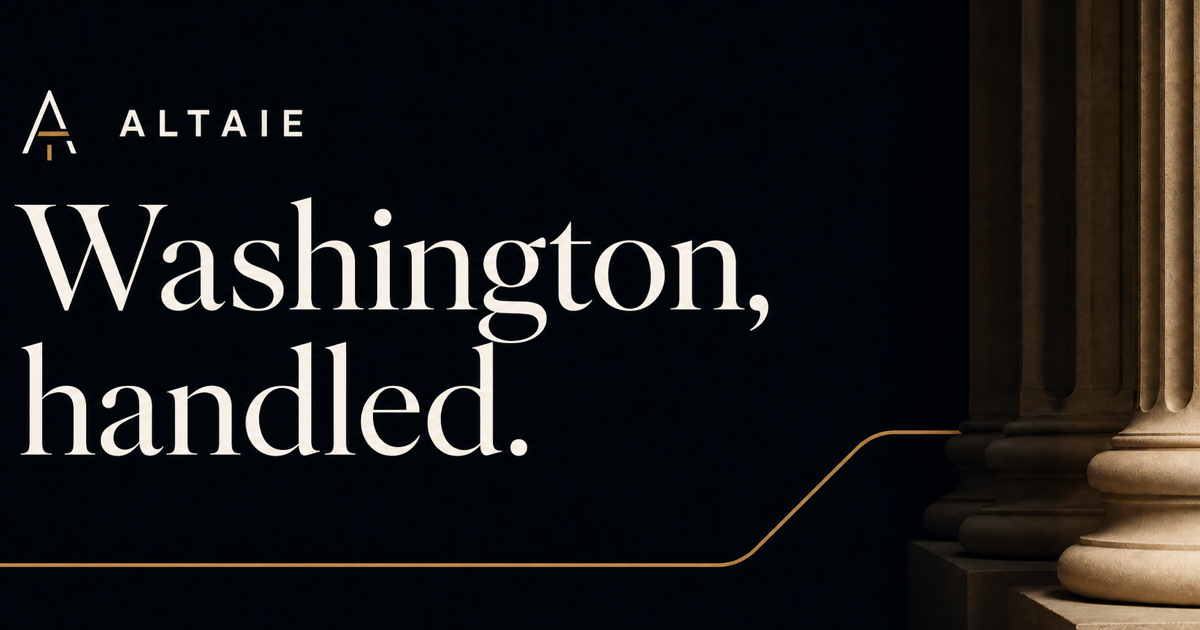
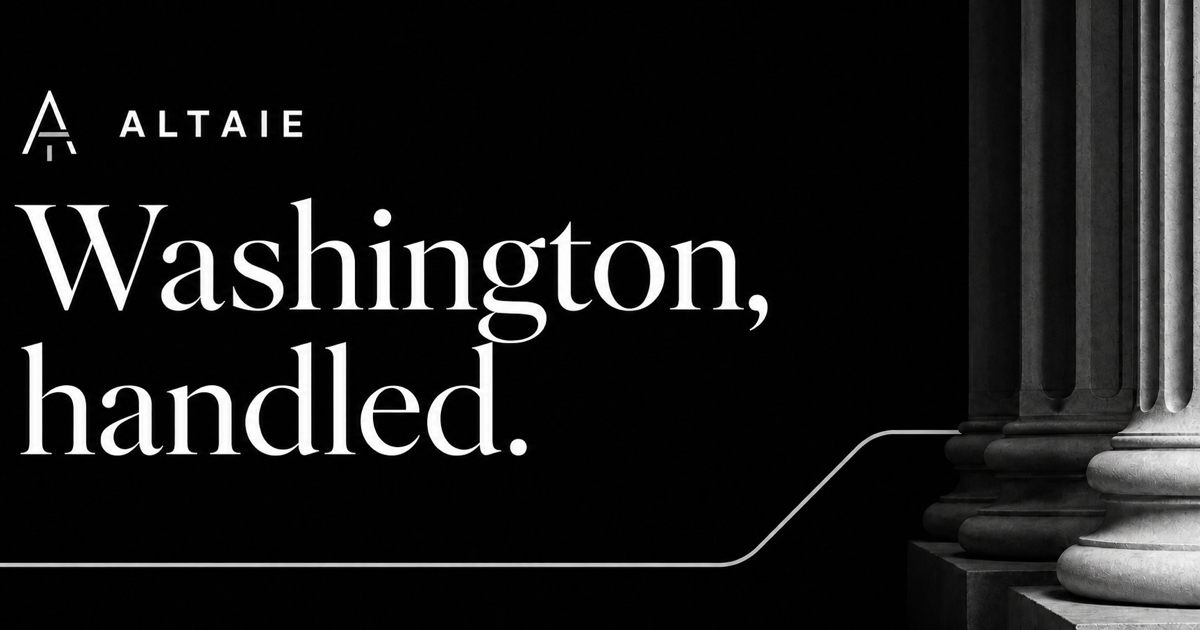
Refine Altaie to premium black and white

diff --git a/app/globals.css b/app/globals.css
@@ -1,14 +1,14 @@
 :root {
-  --ink: #0a1117;
-  --ink-soft: #17212a;
-  --ivory: #f4f0e8;
-  --paper: #fbfaf7;
-  --brass: #b28a57;
-  --brass-dark: #8c683d;
-  --slate: #68747d;
-  --line: rgba(10, 17, 23, 0.16);
+  --ink: #050505;
+  --ink-soft: #1a1a1a;
+  --ivory: #f6f6f4;
+  --paper: #ffffff;
+  --brass: #d7d7d3;
+  --brass-dark: #444442;
+  --slate: #6b6b69;
+  --line: rgba(5, 5, 5, 0.16);
   --white-line: rgba(255, 255, 255, 0.18);
-  --shadow: 0 30px 80px rgba(8, 15, 21, 0.16);
+  --shadow: 0 30px 80px rgba(0, 0, 0, 0.15);
 }
 * { box-sizing: border-box; }
 html { scroll-behavior: smooth; }
@@ -24,24 +24,24 @@ h3 { font-size: 1.25rem; line-height: 1.25; }
 button, input, select, textarea { font: inherit; }
 button { cursor: pointer; }
 button:disabled { cursor: wait; opacity: 0.66; }
-:focus-visible { outline: 2px solid var(--brass); outline-offset: 4px; }
+:focus-visible { outline: 2px solid #111; outline-offset: 4px; }
 .skip-link { position: fixed; left: 1rem; top: 1rem; z-index: 100; padding: .7rem 1rem; background: var(--ivory); color: var(--ink); transform: translateY(-180%); transition: transform .2s; }
 .skip-link:focus { transform: translateY(0); }
 .page-shell { width: min(1280px, calc(100% - 64px)); margin-inline: auto; }
 .eyebrow { margin-bottom: 1rem; color: var(--brass-dark); font-size: .72rem; font-weight: 800; letter-spacing: .18em; line-height: 1.2; text-transform: uppercase; }
-.eyebrow--light { color: #d2b084; }
+.eyebrow--light { color: #d7d7d3; }
 .button { display: inline-flex; min-height: 50px; align-items: center; justify-content: center; padding: .78rem 1.35rem; border: 1px solid transparent; border-radius: 1px; font-size: .75rem; font-weight: 800; letter-spacing: .08em; line-height: 1; text-transform: uppercase; transition: background .2s, color .2s, border-color .2s, transform .2s; }
 .button:hover { transform: translateY(-1px); }
 .button--dark { background: var(--ink); color: var(--ivory); }
 .button--dark:hover { background: var(--ink-soft); }
-.button--brass { background: var(--brass); color: var(--ink); }
-.button--brass:hover { background: #c59a63; }
+.button--brass { background: var(--ink); color: white; }
+.button--brass:hover { background: #292929; }
 .button--ivory { background: var(--ivory); color: var(--ink); }
 .button--ghost { border-color: rgba(255,255,255,.56); color: white; background: rgba(10,17,23,.12); backdrop-filter: blur(8px); }
 .button--ghost:hover { background: rgba(255,255,255,.12); }
 .text-link { display: inline-flex; gap: .45rem; border-bottom: 1px solid var(--brass); padding-bottom: .2rem; font-size: .82rem; font-weight: 800; letter-spacing: .06em; text-transform: uppercase; }
 .text-link--light { color: var(--ivory); }
-.site-header { position: sticky; top: 0; z-index: 50; background: rgba(251,250,247,.92); border-bottom: 1px solid var(--line); backdrop-filter: blur(14px); }
+.site-header { position: sticky; top: 0; z-index: 50; background: rgba(255,255,255,.94); border-bottom: 1px solid var(--line); backdrop-filter: blur(14px); }
 .header-shell { width: min(1440px, calc(100% - 40px)); min-height: 78px; margin-inline: auto; display: grid; grid-template-columns: 1fr auto 1fr; align-items: center; gap: 2rem; }
 .brand-lockup { display: inline-flex; width: max-content; align-items: center; gap: .8rem; }
 .brand-mark { display: inline-block; width: 31px; height: 31px; flex: 0 0 31px; background: url('/brand/altaie-mark.svg') center/contain no-repeat; }
@@ -49,84 +49,86 @@ button:disabled { cursor: wait; opacity: 0.66; }
 .brand-lockup--inverse { color: var(--ivory); }
 .brand-lockup--inverse .brand-mark { outline: 1px solid rgba(255,255,255,.12); }
 .desktop-nav { display: flex; align-items: center; gap: 2.2rem; }
-.desktop-nav a { color: #3c474f; font-size: .74rem; font-weight: 800; letter-spacing: .06em; text-transform: uppercase; }
+.desktop-nav a { color: #3d3d3b; font-size: .74rem; font-weight: 800; letter-spacing: .06em; text-transform: uppercase; }
 .desktop-nav a:hover { color: var(--ink); }
 .header-cta { justify-self: end; }
 .mobile-nav { display: none; }
-.site-footer { background: var(--ink); color: #cdd1d3; }
+.site-footer { background: var(--ink); color: #d1d1ce; }
 .footer-shell { width: min(1280px, calc(100% - 64px)); margin-inline: auto; display: grid; grid-template-columns: 2fr 1fr 1fr; gap: 5rem; padding: 6rem 0 4rem; }
-.footer-primary p { max-width: 440px; margin: 2rem 0 1.5rem; color: #aeb6ba; font-family: var(--font-serif), Georgia, serif; font-size: 1.7rem; line-height: 1.25; }
+.footer-primary p { max-width: 440px; margin: 2rem 0 1.5rem; color: #b8b8b5; font-family: var(--font-serif), Georgia, serif; font-size: 1.7rem; line-height: 1.25; }
 .footer-column { display: flex; flex-direction: column; align-items: flex-start; gap: .7rem; }
 .footer-column a { font-size: .9rem; }
 .footer-column a:hover { color: white; }
-.footer-legal { width: min(1280px, calc(100% - 64px)); margin-inline: auto; display: flex; justify-content: space-between; gap: 1rem; padding: 1.2rem 0 2rem; border-top: 1px solid var(--white-line); color: #79848b; font-size: .7rem; letter-spacing: .04em; }
+.footer-legal { width: min(1280px, calc(100% - 64px)); margin-inline: auto; display: flex; justify-content: space-between; gap: 1rem; padding: 1.2rem 0 2rem; border-top: 1px solid var(--white-line); color: #888884; font-size: .7rem; letter-spacing: .04em; }
 .home-hero { position: relative; min-height: min(820px, calc(100vh - 78px)); display: flex; align-items: flex-end; overflow: hidden; background: var(--ink); color: white; }
-.home-hero__image { position: absolute; inset: 0; background: url('/brand/principal-movement.png') center 40%/cover no-repeat; transform: scale(1.01); }
-.home-hero__shade { position: absolute; inset: 0; background: linear-gradient(90deg, rgba(5,10,14,.92) 0%, rgba(5,10,14,.66) 42%, rgba(5,10,14,.14) 72%), linear-gradient(0deg, rgba(5,10,14,.72) 0%, transparent 40%); }
+.home-hero__image { position: absolute; inset: 0; background: url('/brand/principal-movement.png') center 40%/cover no-repeat; filter: grayscale(1) contrast(1.06); transform: scale(1.01); }
+.home-hero__shade { position: absolute; inset: 0; background: linear-gradient(90deg, rgba(0,0,0,.94) 0%, rgba(0,0,0,.68) 42%, rgba(0,0,0,.16) 72%), linear-gradient(0deg, rgba(0,0,0,.76) 0%, transparent 40%); }
 .home-hero__content { position: relative; z-index: 2; width: min(1280px, calc(100% - 64px)); margin: 0 auto; padding: 8rem 0 9.5rem; }
 .home-hero__content h1 { max-width: 850px; margin-bottom: 2rem; color: var(--ivory); font-size: clamp(5rem, 10.5vw, 10rem); }
-.home-hero__content h1 em { color: #d2b084; font-weight: 400; }
-.home-hero__content > p:not(.eyebrow) { max-width: 620px; margin-bottom: 2rem; color: #dce0e2; font-size: 1.18rem; }
+.home-hero__content h1 em { color: #d7d7d3; font-weight: 400; }
+.home-hero .button--brass { background: white; color: var(--ink); border-color: white; }
+.home-hero .button--brass:hover { background: #dededb; }
+.home-hero__content > p:not(.eyebrow) { max-width: 620px; margin-bottom: 2rem; color: #e1e1de; font-size: 1.18rem; }
 .hero-actions { display: flex; flex-wrap: wrap; gap: .8rem; }
-.hero-proof { position: absolute; z-index: 2; right: max(32px, calc((100vw - 1280px) / 2)); bottom: 2rem; display: flex; gap: 1.4rem; color: #c9ced1; font-size: .66rem; font-weight: 700; letter-spacing: .1em; text-transform: uppercase; }
+.hero-proof { position: absolute; z-index: 2; right: max(32px, calc((100vw - 1280px) / 2)); bottom: 2rem; display: flex; gap: 1.4rem; color: #cececa; font-size: .66rem; font-weight: 700; letter-spacing: .1em; text-transform: uppercase; }
 .hero-proof span + span { padding-left: 1.4rem; border-left: 1px solid rgba(255,255,255,.28); }
 .statement-section { padding: 8rem 0; }
 .statement-grid { display: grid; grid-template-columns: 1.55fr .8fr; gap: 8rem; align-items: end; }
 .statement-grid h2 { max-width: 800px; margin: 0; font-size: clamp(3rem, 5.5vw, 5.7rem); }
-.statement-grid > div p { color: #4f5b64; font-size: 1.05rem; }
+.statement-grid > div p { color: #51514f; font-size: 1.05rem; }
 .services-section { padding: 7rem 0 8rem; background: var(--ivory); }
 .section-heading { display: grid; grid-template-columns: 1.3fr .7fr; gap: 5rem; align-items: end; margin-bottom: 4rem; }
 .section-heading h2 { margin-bottom: 0; }
-.section-heading > p { color: #57626a; }
+.section-heading > p { color: #5a5a58; }
 .service-cards { display: grid; grid-template-columns: repeat(3, 1fr); border-top: 1px solid var(--line); border-bottom: 1px solid var(--line); }
 .service-card { position: relative; min-height: 340px; padding: 2rem; border-right: 1px solid var(--line); transition: background .2s, color .2s; }
 .service-card:last-child { border-right: 0; }
 .service-card > span { display: block; margin-bottom: 5rem; color: var(--brass-dark); font-size: .75rem; font-weight: 800; }
 .service-card h3 { font-family: var(--font-serif), Georgia, serif; font-size: 2rem; font-weight: 400; }
-.service-card p { color: #59636a; }
+.service-card p { color: #5b5b59; }
 .service-card b { position: absolute; right: 2rem; bottom: 1.5rem; font-size: 1.2rem; }
 .service-card:hover { background: var(--ink); color: var(--ivory); }
-.service-card:hover p { color: #bdc4c8; }
+.service-card:hover p { color: #c5c5c1; }
 .split-feature { display: grid; grid-template-columns: 1fr 1fr; min-height: 780px; padding: 8rem 0; }
-.split-feature__image { min-height: 620px; background-position: center; background-size: cover; box-shadow: var(--shadow); }
+.split-feature__image { min-height: 620px; background-position: center; background-size: cover; filter: grayscale(1) contrast(1.03); box-shadow: var(--shadow); }
 .image-assistant { background-image: url('/brand/assistant-first.png'); }
 .split-feature__content { display: flex; flex-direction: column; justify-content: center; padding: 2rem 0 2rem 7rem; }
-.split-feature__content > p:not(.eyebrow) { max-width: 580px; color: #59646c; font-size: 1.05rem; }
+.split-feature__content > p:not(.eyebrow) { max-width: 580px; color: #5b5b59; font-size: 1.05rem; }
 .numbered-list { margin-top: 2rem; border-top: 1px solid var(--line); }
 .numbered-list article { display: grid; grid-template-columns: 48px 1fr; gap: 1.2rem; padding: 1.4rem 0; border-bottom: 1px solid var(--line); }
 .numbered-list article > span { color: var(--brass-dark); font-size: .72rem; font-weight: 800; }
 .numbered-list h3 { margin-bottom: .25rem; }
-.numbered-list p { margin-bottom: 0; color: #647078; font-size: .91rem; }
-.airport-strip { background: #111b23; color: var(--ivory); }
+.numbered-list p { margin-bottom: 0; color: #686866; font-size: .91rem; }
+.airport-strip { background: #090909; color: var(--ivory); }
 .airport-strip__inner { display: grid; grid-template-columns: 1.2fr .7fr auto; align-items: center; gap: 4rem; padding: 5rem 0; }
 .airport-strip h2 { margin: 0; font-size: clamp(3rem, 5vw, 5.5rem); }
-.airport-strip h2 span { color: var(--brass); }
-.airport-strip__inner > p { margin: 0; color: #b6bec3; }
+.airport-strip h2 span { color: #8c8c89; }
+.airport-strip__inner > p { margin: 0; color: #bebebb; }
 .metrics { display: grid; grid-template-columns: repeat(4, 1fr); padding: 6rem 0; }
 .metrics div { min-height: 160px; padding: 1.5rem 2rem; border-left: 1px solid var(--line); display: flex; flex-direction: column; justify-content: space-between; }
 .metrics div:last-child { border-right: 1px solid var(--line); }
 .metrics strong { font-family: var(--font-serif), Georgia, serif; font-size: 3rem; font-weight: 400; }
-.metrics span { color: #66727a; font-size: .78rem; font-weight: 700; letter-spacing: .04em; text-transform: uppercase; }
-.cta-band { width: min(1440px, calc(100% - 32px)); margin: 0 auto 16px; display: grid; grid-template-columns: 1fr auto; align-items: end; gap: 4rem; padding: 6rem max(32px, calc((100vw - 1280px) / 2)); background: var(--brass); color: var(--ink); }
+.metrics span { color: #6a6a68; font-size: .78rem; font-weight: 700; letter-spacing: .04em; text-transform: uppercase; }
+.cta-band { width: min(1440px, calc(100% - 32px)); margin: 0 auto 16px; display: grid; grid-template-columns: 1fr auto; align-items: end; gap: 4rem; padding: 6rem max(32px, calc((100vw - 1280px) / 2)); background: var(--ink); color: white; }
 .cta-band h2 { max-width: 850px; margin-bottom: 1rem; }
 .cta-band p:not(.eyebrow) { max-width: 660px; margin: 0; }
-.cta-band .eyebrow { color: #5e4327; }
+.cta-band .eyebrow { color: #bcbcb8; }
 .page-hero { padding: 8rem 0 7rem; background: var(--ivory); border-bottom: 1px solid var(--line); }
 .page-hero__inner { display: grid; grid-template-columns: 1fr .65fr; column-gap: 8rem; align-items: end; }
 .page-hero .eyebrow { grid-column: 1 / -1; }
 .page-hero h1 { max-width: 940px; margin-bottom: 0; font-size: clamp(4rem, 8vw, 8rem); }
-.page-hero__body { max-width: 580px; margin-bottom: 2rem; color: #526069; font-size: 1.05rem; }
+.page-hero__body { max-width: 580px; margin-bottom: 2rem; color: #565654; font-size: 1.05rem; }
 .page-hero .button { grid-column: 2; width: max-content; }
 .detail-list { padding: 3rem 0 8rem; }
 .detail-list article { display: grid; grid-template-columns: 90px 1fr; gap: 2rem; padding: 4rem 0; border-bottom: 1px solid var(--line); scroll-margin-top: 100px; }
 .detail-list article > span { color: var(--brass-dark); font-size: .78rem; font-weight: 800; }
 .detail-list article > div { display: grid; grid-template-columns: .8fr 1.2fr auto; gap: 4rem; align-items: start; }
 .detail-list h2 { margin: 0; font-size: 2.8rem; }
-.detail-list p { max-width: 640px; color: #56626b; }
+.detail-list p { max-width: 640px; color: #5b5b59; }
 .detail-list b { color: var(--brass-dark); font-size: .68rem; letter-spacing: .08em; text-transform: uppercase; }
-.policy-note { margin-bottom: 8rem; display: grid; grid-template-columns: .45fr .75fr 1fr; gap: 4rem; padding: 4rem; background: #ece7dd; }
+.policy-note { margin-bottom: 8rem; display: grid; grid-template-columns: .45fr .75fr 1fr; gap: 4rem; padding: 4rem; background: #ededeb; }
 .policy-note h2 { margin: 0; font-size: 3rem; }
-.policy-note > p:last-child { color: #57636b; }
+.policy-note > p:last-child { color: #5b5b59; }
 .two-column-section { display: grid; grid-template-columns: .85fr 1fr; gap: 9rem; padding: 8rem 0; }
 .two-column-section h2 { max-width: 520px; }
 .corporate-use-cases { padding: 7rem 0; background: var(--ink); color: var(--ivory); }
@@ -134,28 +136,28 @@ button:disabled { cursor: wait; opacity: 0.66; }
 .use-case-grid article { padding: 2rem; border-right: 1px solid var(--white-line); }
 .use-case-grid article:last-child { border-right: 0; }
 .use-case-grid h3 { font-family: var(--font-serif), Georgia, serif; font-size: 1.8rem; font-weight: 400; }
-.use-case-grid p { color: #aeb7bd; }
+.use-case-grid p { color: #b6b6b2; }
 .airport-cards { display: grid; grid-template-columns: repeat(3, 1fr); padding: 7rem 0; }
 .airport-cards article { padding: 2.4rem; border: 1px solid var(--line); border-right: 0; }
 .airport-cards article:last-child { border-right: 1px solid var(--line); }
 .airport-cards strong { display: block; margin-bottom: 5rem; color: var(--brass-dark); font-family: var(--font-serif), Georgia, serif; font-size: 4.5rem; font-weight: 400; }
 .airport-cards h2 { font-size: 2rem; }
-.airport-cards p { color: #5d6870; }
+.airport-cards p { color: #626260; }
 .arrival-process { display: grid; grid-template-columns: .75fr 1.25fr; gap: 9rem; padding-bottom: 8rem; }
 .arrival-process ol { margin: 0; padding: 0; list-style: none; border-top: 1px solid var(--line); }
 .arrival-process li { display: grid; grid-template-columns: 54px 1fr; gap: 1.2rem; padding: 1.8rem 0; border-bottom: 1px solid var(--line); }
 .arrival-process li > span { color: var(--brass-dark); font-size: .75rem; font-weight: 800; }
 .arrival-process h3 { margin-bottom: .3rem; }
-.arrival-process p { margin: 0; color: #637078; }
+.arrival-process p { margin: 0; color: #686866; }
 .standard-grid { display: grid; grid-template-columns: repeat(3, 1fr); padding: 7rem 0; }
 .standard-grid article { min-height: 340px; padding: 2rem; border: 1px solid var(--line); margin: 0 -1px -1px 0; }
 .standard-grid span { display: block; margin-bottom: 5rem; color: var(--brass-dark); font-size: .75rem; font-weight: 800; }
 .standard-grid h2 { font-family: var(--font-serif), Georgia, serif; font-size: 2rem; }
-.standard-grid p { color: #5f6a72; }
-.compliance-band { padding: 6rem 0; background: #111b23; color: var(--ivory); }
+.standard-grid p { color: #636361; }
+.compliance-band { padding: 6rem 0; background: #090909; color: var(--ivory); }
 .compliance-band .page-shell { display: grid; grid-template-columns: .8fr 1fr; gap: 8rem; }
 .compliance-band h2 { margin: 0; }
-.compliance-band .page-shell > p { color: #b3bcc1; font-size: 1.05rem; }
+.compliance-band .page-shell > p { color: #bbbbb7; font-size: 1.05rem; }
 .partner-criteria { display: grid; grid-template-columns: .8fr 1fr; gap: 9rem; padding: 8rem 0; }
 .partner-criteria ul { margin: 0; padding: 0; list-style: none; border-top: 1px solid var(--line); }
 .partner-criteria li { position: relative; padding: 1.3rem 0 1.3rem 2rem; border-bottom: 1px solid var(--line); }
@@ -165,12 +167,12 @@ button:disabled { cursor: wait; opacity: 0.66; }
 .contact-choices > a:hover { background: var(--ivory); }
 .contact-choices span, .contact-choices b { color: var(--brass-dark); font-size: .72rem; letter-spacing: .08em; text-transform: uppercase; }
 .contact-choices h2 { margin: 2rem 0 1rem; font-size: 3rem; }
-.contact-choices p { color: #657078; }
+.contact-choices p { color: #696967; }
 .form-page { padding: 7rem 0 9rem; background: var(--ivory); }
 .form-page > .page-shell { display: grid; grid-template-columns: .7fr 1.3fr; gap: 7rem; align-items: start; }
 .form-page__intro { position: sticky; top: 120px; }
 .form-page__intro h1 { margin-bottom: 1.5rem; font-size: clamp(3.8rem, 6vw, 6.5rem); }
-.form-page__intro > p:not(.eyebrow) { color: #5f6a72; }
+.form-page__intro > p:not(.eyebrow) { color: #636361; }
 .request-steps { display: flex; flex-direction: column; gap: .8rem; margin-top: 3rem; padding-top: 2rem; border-top: 1px solid var(--line); }
 .request-steps span { display: flex; gap: 1rem; font-size: .86rem; }
 .request-steps b { color: var(--brass-dark); }
@@ -178,10 +180,10 @@ button:disabled { cursor: wait; opacity: 0.66; }
 .lead-form, .booking-embed { padding: clamp(2rem, 5vw, 4.5rem); background: white; border: 1px solid var(--line); box-shadow: var(--shadow); }
 .form-heading { max-width: 720px; margin-bottom: 3rem; }
 .form-heading h2 { margin-bottom: 1.2rem; font-size: clamp(2.7rem, 4vw, 4.5rem); }
-.form-heading > p:not(.eyebrow) { color: #5c6870; }
+.form-heading > p:not(.eyebrow) { color: #60605e; }
 .form-grid { display: grid; grid-template-columns: 1fr 1fr; gap: 1.4rem; }
-.form-grid label, .checkbox-group legend { display: flex; flex-direction: column; gap: .45rem; color: #35414a; font-size: .76rem; font-weight: 800; letter-spacing: .04em; text-transform: uppercase; }
-.form-grid input, .form-grid select, .form-grid textarea { width: 100%; border: 1px solid #c8c6c0; border-radius: 0; background: #fdfcf9; color: var(--ink); padding: .85rem .9rem; font-size: .94rem; font-weight: 500; letter-spacing: 0; text-transform: none; }
+.form-grid label, .checkbox-group legend { display: flex; flex-direction: column; gap: .45rem; color: #3b3b39; font-size: .76rem; font-weight: 800; letter-spacing: .04em; text-transform: uppercase; }
+.form-grid input, .form-grid select, .form-grid textarea { width: 100%; border: 1px solid #c9c9c5; border-radius: 0; background: #fdfdfc; color: var(--ink); padding: .85rem .9rem; font-size: .94rem; font-weight: 500; letter-spacing: 0; text-transform: none; }
 .form-grid input, .form-grid select { min-height: 50px; }
 .form-grid textarea { resize: vertical; }
 .form-grid input:focus, .form-grid select:focus, .form-grid textarea:focus { border-color: var(--brass-dark); outline: 1px solid var(--brass-dark); }
@@ -189,10 +191,10 @@ button:disabled { cursor: wait; opacity: 0.66; }
 .field-spacer { min-height: 1px; }
 .checkbox-group { margin: 0; padding: 0; border: 0; }
 .checkbox-group > div { display: grid; grid-template-columns: 1fr 1fr; gap: .7rem; margin-top: .45rem; }
-.checkbox-group label { display: flex; flex-direction: row; align-items: center; gap: .6rem; min-height: 48px; padding: .65rem .8rem; border: 1px solid #d0cec8; background: #fdfcf9; font-size: .78rem; font-weight: 600; letter-spacing: 0; text-transform: none; }
+.checkbox-group label { display: flex; flex-direction: row; align-items: center; gap: .6rem; min-height: 48px; padding: .65rem .8rem; border: 1px solid #d0d0cc; background: #fdfdfc; font-size: .78rem; font-weight: 600; letter-spacing: 0; text-transform: none; }
 .checkbox-group input, .consent input { width: 17px; height: 17px; accent-color: var(--brass-dark); }
 .website-field { position: absolute !important; left: -10000px !important; width: 1px !important; height: 1px !important; overflow: hidden !important; }
-.consent { display: flex; align-items: flex-start; gap: .7rem; margin: 1.5rem 0; color: #5b6770; font-size: .78rem; }
+.consent { display: flex; align-items: flex-start; gap: .7rem; margin: 1.5rem 0; color: #61615f; font-size: .78rem; }
 .consent input { flex: 0 0 auto; margin-top: .2rem; }
 .consent a { border-bottom: 1px solid var(--brass-dark); }
 .form-actions { display: flex; align-items: center; gap: 1.5rem; }
@@ -203,7 +205,7 @@ button:disabled { cursor: wait; opacity: 0.66; }
 .legal-copy { max-width: 900px; padding: 7rem 0 9rem; }
 .legal-copy > p:first-child { padding: 1.2rem; background: var(--ivory); border-left: 3px solid var(--brass); }
 .legal-copy h2 { margin: 3rem 0 1rem; font-family: var(--font-serif), Georgia, serif; font-size: 2rem; }
-.legal-copy p { color: #4e5b64; }
+.legal-copy p { color: #545452; }
 @media (max-width: 1080px) {
   .desktop-nav { display: none; }
   .header-shell { grid-template-columns: 1fr auto auto; }
@@ -227,7 +229,7 @@ button:disabled { cursor: wait; opacity: 0.66; }
   .header-cta { display: none; }
   .brand-name { font-size: 1.13rem; }
   .home-hero { min-height: 740px; }
-  .home-hero__shade { background: linear-gradient(0deg, rgba(5,10,14,.94) 0%, rgba(5,10,14,.58) 72%, rgba(5,10,14,.3)); }
+  .home-hero__shade { background: linear-gradient(0deg, rgba(0,0,0,.95) 0%, rgba(0,0,0,.6) 72%, rgba(0,0,0,.32)); }
   .home-hero__content { padding: 7rem 0 10rem; }
   .home-hero__content h1 { font-size: clamp(4.2rem, 22vw, 6.4rem); }
   .hero-actions { align-items: stretch; flex-direction: column; }
